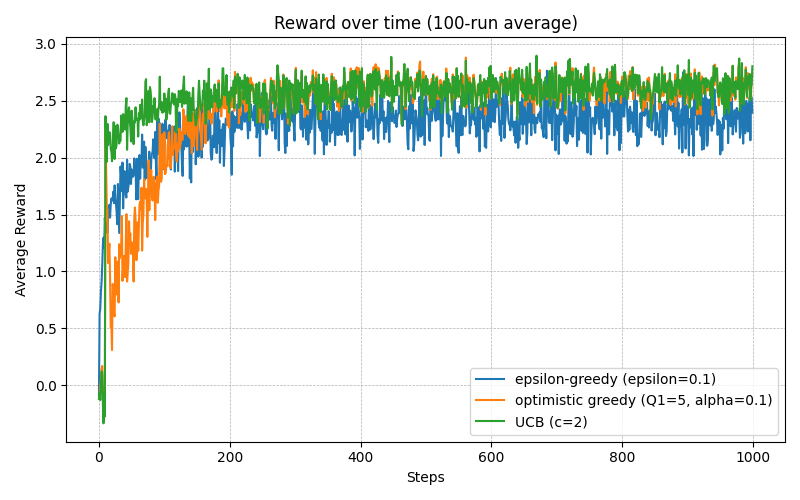
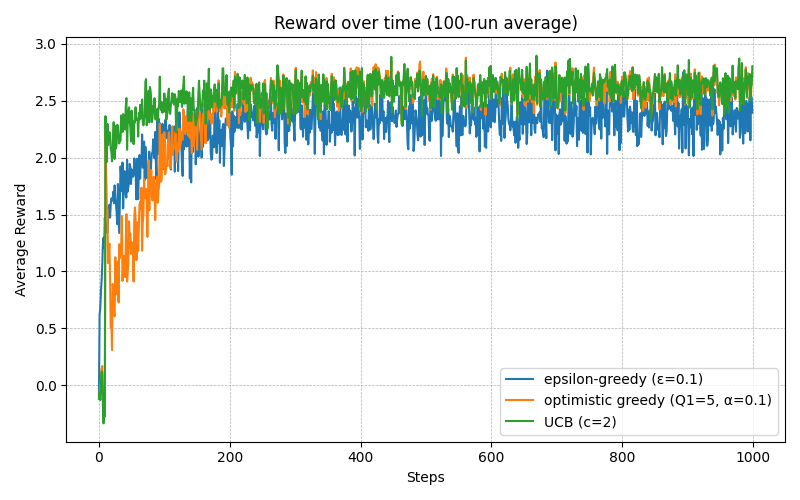
Final commit - ready for submission

Changed region(s): [[0.5938, 0.75, 0.9688, 0.87]]

diff --git a/Week 2 - MAB/mab_lab.py b/Week 2 - MAB/mab_lab.py
@@ -1,3 +1,7 @@
+###GROUP MEMBERS###
+### MIKYLE SINGH  2465557 ###
+### ANAND PATEL 2561034 ###
+
 import numpy as np
 import matplotlib
 matplotlib.use("Agg")
@@ -19,11 +23,15 @@ class MultiArmedBandit:
 def epsilon_greedy(k, steps, epsilon, alpha=None, runs=100, seed=0):
     master_rng = np.random.default_rng(seed)
     avg_reward = np.zeros(steps)
+    optimal_action_count = np.zeros(steps)
+    
     for _ in range(runs):
         rng = np.random.default_rng(master_rng.integers(0, 2**32))
         bandit = MultiArmedBandit(k=k, rng=rng)
         q_vals = np.zeros(k)
         counts = np.zeros(k)
+        optimal_action = np.argmax(bandit.true_means)  # ✅ Find optimal arm
+
         for t in range(steps):
             if rng.random() < epsilon:
                 act = rng.integers(0, k)
@@ -31,6 +39,10 @@ def epsilon_greedy(k, steps, epsilon, alpha=None, runs=100, seed=0):
                 max_val = q_vals.max()
                 cand = np.where(np.isclose(q_vals, max_val))[0]
                 act = rng.choice(cand)
+            
+            if act == optimal_action:
+                optimal_action_count[t] += 1  # ✅ Track optimal choice
+
             rew = bandit.pull(act)
             avg_reward[t] += rew
             counts[act] += 1
@@ -38,38 +50,55 @@ def epsilon_greedy(k, steps, epsilon, alpha=None, runs=100, seed=0):
                 q_vals[act] += (rew - q_vals[act]) / counts[act]
             else:
                 q_vals[act] += alpha * (rew - q_vals[act])
+
     avg_reward /= runs
-    return avg_reward
+    optimal_action_count /= runs  # ✅ Convert to %
+    return avg_reward, optimal_action_count
+
 
 
 def optimistic_greedy(k, steps, initial_q, alpha, runs=100, seed=0):
     master_rng = np.random.default_rng(seed)
     avg = np.zeros(steps)
+    optimal_action_count = np.zeros(steps)
+
     for _ in range(runs):
         rng = np.random.default_rng(master_rng.integers(0, 2**32))
         bandit = MultiArmedBandit(k=k, rng=rng)
         q_vals = np.full(k, initial_q, dtype=float)
         counts = np.zeros(k)
+        optimal_action = np.argmax(bandit.true_means)
+
         for t in range(steps):
             max_val = q_vals.max()
             cand = np.where(np.isclose(q_vals, max_val))[0]
             act = rng.choice(cand)
+
+            if act == optimal_action:
+                optimal_action_count[t] += 1
+
             rew = bandit.pull(act)
             avg[t] += rew
             counts[act] += 1
             q_vals[act] += alpha * (rew - q_vals[act])
+
     avg /= runs
-    return avg
+    optimal_action_count /= runs
+    return avg, optimal_action_count
 
 
 def ucb(k, steps, c, runs=100, seed=0):
     master_rng = np.random.default_rng(seed)
     avg = np.zeros(steps)
+    optimal_action_count = np.zeros(steps)
+
     for _ in range(runs):
         rng = np.random.default_rng(master_rng.integers(0, 2**32))
         bandit = MultiArmedBandit(k=k, rng=rng)
         q_vals = np.zeros(k)
         counts = np.zeros(k)
+        optimal_action = np.argmax(bandit.true_means)
+
         for t in range(steps):
             if (counts == 0).any():
                 zero = np.where(counts == 0)[0]
@@ -79,25 +108,34 @@ def ucb(k, steps, c, runs=100, seed=0):
                 max_val = ucb_values.max()
                 cand = np.where(np.isclose(ucb_values, max_val))[0]
                 act = rng.choice(cand)
+
+            if act == optimal_action:
+                optimal_action_count[t] += 1
+
             rew = bandit.pull(act)
             avg[t] += rew
             counts[act] += 1
             q_vals[act] += (rew - q_vals[act]) / counts[act]
+
     avg /= runs
-    return avg
+    optimal_action_count /= runs
+    return avg, optimal_action_count
 
 
 def run_lab():
     k = 10
     steps = 1000
     runs = 100
-    #fixed hyperparameters
-    eps_curve = epsilon_greedy(k, steps, epsilon=0.1, alpha=None, runs=runs)
-    opt_curve = optimistic_greedy(k, steps, initial_q=5.0, alpha=0.1, runs=runs)
-    ucb_curve = ucb(k, steps, c=2.0, runs=runs)
+
+    # Run all algorithms
+    eps_curve, eps_opt = epsilon_greedy(k, steps, epsilon=0.1, alpha=None, runs=runs)
+    opt_curve, opt_opt = optimistic_greedy(k, steps, initial_q=5.0, alpha=0.1, runs=runs)
+    ucb_curve, ucb_opt = ucb(k, steps, c=2.0, runs=runs)
+
+    # Plot 1: Reward over Time
     plt.figure(figsize=(8, 5))
-    plt.plot(eps_curve, label="epsilon-greedy (epsilon=0.1)")
-    plt.plot(opt_curve, label="optimistic greedy (Q1=5, alpha=0.1)")
+    plt.plot(eps_curve, label="epsilon-greedy (ε=0.1)")
+    plt.plot(opt_curve, label="optimistic greedy (Q1=5, α=0.1)")
     plt.plot(ucb_curve, label="UCB (c=2)")
     plt.xlabel("Steps")
     plt.ylabel("Average Reward")
@@ -108,13 +146,28 @@ def run_lab():
     plt.savefig("reward_over_time.png")
     plt.close()
 
-    #hyperparameter study
+    # Plot 2: % Optimal Action over Time
+    plt.figure(figsize=(8, 5))
+    plt.plot(eps_opt * 100, label="epsilon-greedy (ε=0.1)")
+    plt.plot(opt_opt * 100, label="optimistic greedy (Q1=5, α=0.1)")
+    plt.plot(ucb_opt * 100, label="UCB (c=2)")
+    plt.xlabel("Steps")
+    plt.ylabel("% Optimal Action")
+    plt.title("Optimal Action % over time (100-run average)")
+    plt.legend()
+    plt.grid(True, linestyle='--', linewidth=0.5)
+    plt.tight_layout()
+    plt.savefig("optimal_action_over_time.png")
+    plt.close()
+
+    # Plot 3: Hyperparameter Study
     eps_vals = [0.01, 0.05, 0.1, 0.2, 0.5]
-    eps_perf = [epsilon_greedy(k, steps, epsilon=x, alpha=None, runs=runs).mean() for x in eps_vals]
+    eps_perf = [epsilon_greedy(k, steps, epsilon=x, alpha=None, runs=runs)[0].mean() for x in eps_vals]
     q_vals = [0.0, 2.5, 5.0, 10.0]
-    opt_perf = [optimistic_greedy(k, steps, initial_q=q, alpha=0.1, runs=runs).mean() for q in q_vals]
+    opt_perf = [optimistic_greedy(k, steps, initial_q=q, alpha=0.1, runs=runs)[0].mean() for q in q_vals]
     c_vals = [0.5, 1.0, 2.0, 5.0]
-    ucb_perf = [ucb(k, steps, c=v, runs=runs).mean() for v in c_vals]
+    ucb_perf = [ucb(k, steps, c=v, runs=runs)[0].mean() for v in c_vals]
+
     fig, ax = plt.subplots(figsize=(8, 5))
     ax.plot(eps_vals, eps_perf, marker='o', label="epsilon-greedy")
     ax.plot(q_vals, opt_perf, marker='o', label="optimistic greedy")
@@ -128,6 +181,7 @@ def run_lab():
     plt.tight_layout()
     plt.savefig("hyperparam_study.png")
     plt.close()
+
 
 
 if __name__ == "__main__":